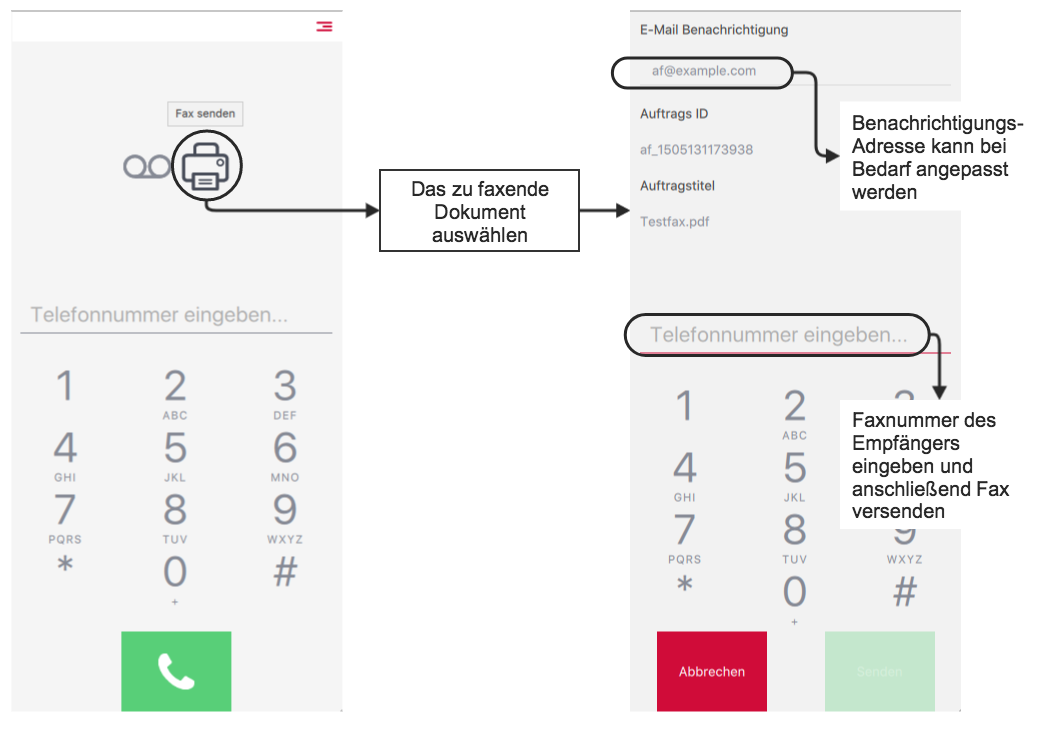
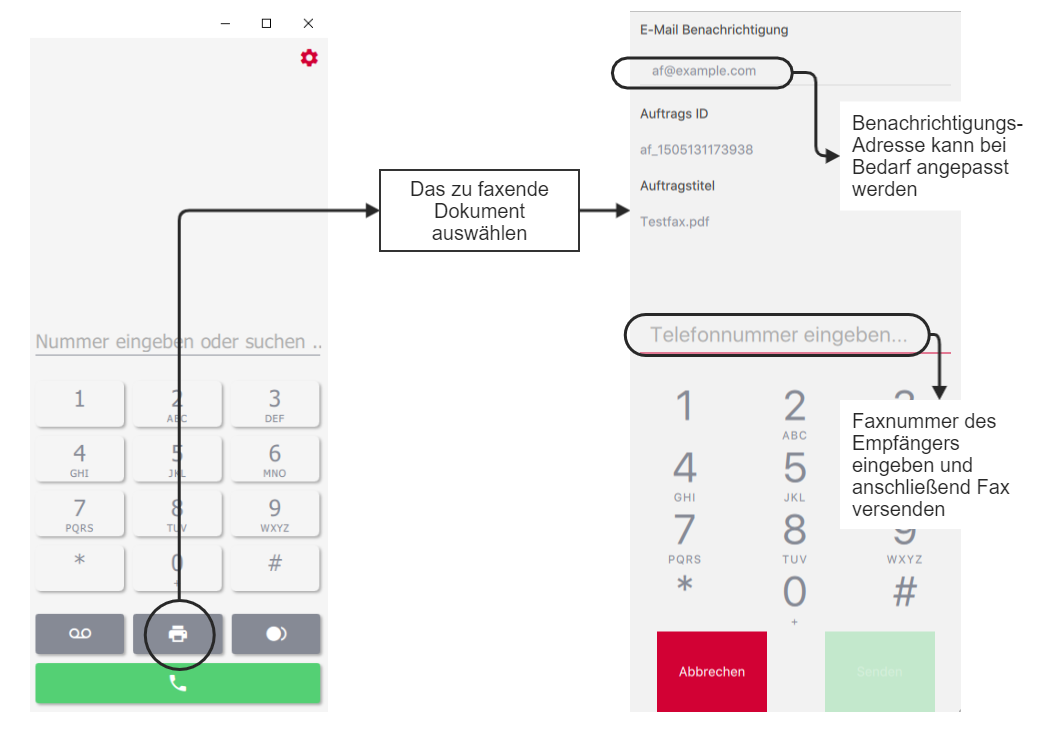
PM-1393 Documentation Client UserHandbook pascom19

diff --git a/site/content/clients/desktop-userguide/_index.en.md b/site/content/clients/desktop-userguide/_index.en.md
@@ -16,7 +16,7 @@ weight: 30
 - Hinweis auf unterstützte Headsets
 - VErbinden -> Bilder mit einheitlichen Nummern
 -->
-## Training Video
+## Whats New in pascom19 | Training Video
  
 {{< youtube 1oK8OLRG624 >}}
 
@@ -339,9 +339,9 @@ Start a new [group conference]({{< relref "#group-conferences">}}) or join an ex
 
 The Call History provides an overview of all your calls.
 
-![pascom Call History](journal.en.png?width=90%)
+![pascom Call History](journal.en.png)
 
-By using the right click function, it is possible to use do the following when clicking on a call in the log:
+By using the right click function, it is possible to use the following when clicking on a call in the log:
 
 * Copy all details pertaining to a caller (Time, type of call, caller name (if available), and their phone number),
 * Copy only the phone number to store or edit elsewhere,
@@ -353,19 +353,51 @@ By using the right click function, it is possible to use do the following when c
 
 ![pascom Telephone book](phonebook.en.png)
 
-The client provides access to the company phone book as well as your private phone book which you can manage yourself. Add a contact to the private phone book and this display name will displayed by incoming calls but only in your desktop client.
+The client provides access to the company phone book as well as your private phone book which you can manage yourself. Add a contact to the private phone book and this display name will displayed by incoming calls but only in your desktop client.  
+
+If you want to add external contacts from your phonebook to the contact list, you can mark the corresponding contact as a favorite in the phonebook.
+
+![phonebook](phonebook_favorit.png?width=350px)
 
 ## Fax
 
-![pascom client fax](fax.en.png?width=75%)
+![pascom client fax](fax.en.png?width=500px)
 
 If a fax number is already stored in the phone book, it is possible to send a fax by clicking on the fax symbol in the phone book:
 
-![Fax](phonebook_fax.en.png?width=45%)
+![Fax](phonebook_fax.en.png?width=350px)
+
+### Fax from an watched Folder (PDF to Fax)
+
+The Client Settings > {{< ui-button "PDF to FAX settings" >}} allows you to define a folder on your computer. This folder is monitored by the client. As soon as a PDF File is saved, copied or printed in this folder, the pascom client opens the fax dialog to send this file.
+
+### Automatic fax via an watched folder
+
+Fax control panels are inserted as plain text in the document to be sent, then the fax server processes these instructions.
+
+#### Preparation
+
+To be able to recognize the panels from the PDF document, the [Ghostskript](https://www.ghostscript.com/) is needed on your machine. If the ghostscript is installed then the path of the Ghostscript File *gs* must be selected via the client > {{< ui-button "PDF to FAX settings" >}}.
+
+
+#### Automatic transmission
+
+Insert the controls into the document to be sent.
+
+Please note that these panels can also be read by the recipient. Possibly, you can be invisible with certain writing programs (eg white test on a white background).
+
+|Available controls||
+|---|---|
+|@@+FAX:+49991123456789@@|The fax must contain at least this control character with the destination number.|
+|@@+TAG:Bestellung XYZ@@|Optionally, the fax job can be provided with a subject.|
+|@@+NOTIFY:mustermann@musterfirma.de@@|Optionally, you can specify who should be notified of the status of the fax job.|
+
+
+As described in the previous section, you can use the client settings > {{< ui-button "PDF to FAX settings" >}} to define a folder on your computer that is monitored by the client. As soon as a PDF file is saved, copied or printed in this folder, the control fields are evaluated and the file is sent as a fax.
 
 ## Call Voicemail
 
-![Voicemail-Box](voicemailbox.en.png?width=70%)
+![Voicemail-Box](voicemailbox.en.png?width=500px)
 
 By clicking on the Voicemail box symbol, it is possible to call your voicemail box directly. Additional options can be configured by following the prompts in the voicemail system itself.
 
@@ -377,7 +409,7 @@ Shortcut keys are only available in the desktop client for Windows and macOS.
 
 When installing the client, the shortcut keys are predefined. However, if needed the shortcut keys can be freely customised according to your preference.
 
-![Shortcut keys](settings_shortcuts.en.png?width=55%)
+![Shortcut keys](settings_shortcuts.en.png?width=90%)
 
 ### Global Shortcut Keys:
 
@@ -389,13 +421,61 @@ When installing the client, the shortcut keys are predefined. However, if needed
 
 ## Client Settings
 
-![Client Settings](settings.en.png?width=45%)
+### Profile Settings
 
-|Settings|Description|
+![profile settings](profilesettings.en.png?width=45%)
+
+|Setting|Description|
 |---|---|
-|Language|Current languages available include: English, German, French, Dutch, Serbian and Bavarian.|
-|Colour Scheme|Available in a two colour schemes: light and dark.|
-|Download Folder|Per default, your downloads folder will be used, however it is possible to customize according to your requirements.|
+|Avatar|Change your profile picture. Autogenerate a profile picture or upload a profile picture from the computer.|
+|Contact List|Sort your contact list according to your application preferences.|
+|List Style|There are 2 contact list styles available. "List view" for a narrow contact list and "Details" for a more detailed view.|
+|Auto Away|If your computer is not locked and your mouse does not move for XXX seconds, your status will change to yellow "I'll be right back"|
+|Journal / Hide System Calls|Hides system calls like voicemail etc. from the journal.|
+|Change Password|Set a new Password - works only if the password is not set from an  external source (for example Active Directory)|
+
+### Audio and Headset Settings
+
+Headset settings for supported manufacturers Sennheiser, Jabra and Plantronics. These should be set to "auto" to ensure a fast hardware detection of connected devices. Adjust the microphone, speakers and ringtone of the connected headsets.
+
+![audio and headset settings](audiosettings.en.png?width=400px)
+
+### My Devices / Follow Me Settings
+
+In the Follow Me Settings you decide yourself, providet that it has been activated by the administrator, which of your devices should ring. In addition, you can select predefined workstations to which you can login.
+
+1. Determine your device that will be used for outgoing calls.
+2. Determine which of your devices should ring when. 
+3. Pair / unpair your mobile device. 
+
+![Follow Me Settings](followme.en.png?width=95%)
+
+### Client Settings
+
+Here you define the basic settings of the Client.
+
+1. Change the Language.
+2. Choose between 2 Colormodes, bright and dark.
+3. Determine a download folder in which the files of transfers are stored. 
+
+![Client Settings](client_settings.en.png?width=500px)
+
+## Actions
+
+The actions allow you to pass call data to third-party applications. Here you have the possibility to pass on data to a URL or to an installed application.
+
+![Client Actions](actions.en.png?width=500px)
+
+The applications are diverse here. You can use the variables $ {name}, $ {number}, $ {MDC_LABEL-X} or $ {MDC_SKILL-X} (Labels) as parameters.
+
+|Setting|Description|
+|---|---|
+|URL|Enter the URL here, followed by the desired parameters.|
+|Automaticly open URL|Automatically open URL on incoming call.|
+|Application|Select the installed application on your computer here.|
+|Parameters|Define here the parameters to be passed to the application.|
+|Automaticly open app|Application starts automatically on incoming call.|
+
 
 ## pascom Client Feedback  
 

diff --git a/site/content/clients/desktop-userguide/_index.de.md b/site/content/clients/desktop-userguide/_index.de.md
@@ -16,6 +16,11 @@ weight: 30
 - Hinweis auf unterstützte Headsets
 - VErbinden -> Bilder mit einheitlichen Nummern
 -->
+
+## Whats New in pascom19 | Training Video
+ 
+{{< youtube cnSuDvVzl5Q >}}
+
 ## Login
 
 Damit ein angelegter [Benutzer]({{< relref "/user/user#Benutzer-anlegen">}}) den pascom Client verwenden und sich anmelden kann benötigt er seinen Benutzernamen und das hinterlegte Benutzerkennwort.
@@ -344,7 +349,7 @@ Starten Sie nun eine neue [Gruppen Konferenz]({{< relref "#gruppen-konferenz">}}
 
 Das Journal gibt eine Übersicht über alle getätigten Anrufe.
 
-![Journal](journal.de.png?width=90%)
+![Journal](journal.de.png)
 
 
 Im Journal haben Sie die Möglichkeit mit einem Rechtsklick auf den Eintrag
@@ -360,19 +365,23 @@ Im Journal haben Sie die Möglichkeit mit einem Rechtsklick auf den Eintrag
 
 ![Telefonbuch](phonebook.de.png)
 
-Der Client bietet neben dem Firmen-Telefonbuch auch ein eigenes (privates) welches Sie selber anlegen und pflegen können. Legen Sie einen Eintrag in Ihrem privaten Telefonbuch, wird dessen Name bei einem eingehendenen Anruf nur in Ihrem Client angezeigt.
+Der Client bietet neben dem Firmen-Telefonbuch auch ein eigenes (privates) welches Sie selber anlegen und pflegen können. Legen Sie einen Eintrag in Ihrem privaten Telefonbuch, wird dessen Name bei einem eingehendenen Anruf nur in Ihrem Client angezeigt.  
+
+Möchten Sie externe Kontakte aus Ihrem Telefonbuch in die Kontaktliste mit aufnehmen, so können Sie im Telefonbuch den entsprechenden Kontakt als Favorit markieren.
+
+![Telefonbuch](phonebook_favorit.png?width=350px)
 
 ## Fax
 
 ### Faxen über den Telefoniebereich
 
-![Fax](fax.de.png?width=75%)
+![Fax](fax.de.png?width=500px)
 
 ### Faxen über den Telefonbuch-Eintrag
 
 Falls die Faxnummer bereits bekannt und im Telefonbuch hinterlegt ist, kann das Fax auch mit einem Klick auf das Fax-Symbol im Telefonbuch versendet werden:
 
-![Fax](phonebook_fax.de.png?width=45%)
+![Fax](phonebook_fax.de.png?width=350px)
 
 ### Faxen über einen überwachten Ordner (PDF to Fax)
 
@@ -384,7 +393,7 @@ Fax-Steuerfelder werden als normaler Text in das zu sendende Dokument eingefügt
 
 #### Vorbereitung
 
-Damit die Steuerfelder aus dem PFD-Dokument erkannt werden können, wird das [Ghostskript](https://www.ghostscript.com/) auf Ihrem Rechner benötigt.
+Damit die Steuerfelder aus dem PDF-Dokument erkannt werden können, wird das [Ghostskript](https://www.ghostscript.com/) auf Ihrem Rechner benötigt.
 Ist das Ghostskript installiert muss der Pfad der Ghostskript-Datei *gs* über die Client-Einstellungen > {{< ui-button "PDF zu Fax Einstellungen" >}} ausgewählt werden.
 
 
@@ -408,7 +417,7 @@ Wie bereits im vorherigen Punkt beschrieben, können Sie über die Client-Einste
 
 ## Voicemailbox abrufen
 
-![Voicemail-Box](voicemailbox.de.png?width=70%)
+![Voicemail-Box](voicemailbox.de.png?width=500px)
 
 Mit dem Klick auf das Voicemail-Box-Symbol können Sie Ihre Voicemail-Box direkt anrufen. Weitere Optionen erfolgen über die Ansagen der Voicemail-Box.
 
@@ -416,7 +425,7 @@ Mit dem Klick auf das Voicemail-Box-Symbol können Sie Ihre Voicemail-Box direkt
 
 Bei der Installation des Clients sind die Tastenkürzel bereits vordefiniert. Diese können Sie aber nach Ihren Wünschen belegen.
 
-![Tastenkürzel](settings_shortcuts.de.png?width=55%)
+![Tastenkürzel](settings_shortcuts.de.png?width=90%)
 
 {{% notice info %}}
 Tastenkürzel sind nur im Desktop Client unter Windows und macOS verfügbar.
@@ -432,14 +441,60 @@ Im folgenden werden die globalen Tastenkürzel näher erklärt:
 
 ## Client-Einstellungen
 
-![Client Einstellungen](settings.de.png?width=45%)
+### Profil Einstellungen
+
+![Profil Einstellungen](profilesettings.de.png?width=400px)
 
 |Einstellung|Beschreibung|
 |---|---|
-|Sprache|Aktuell verfügbare Sprachen: Deutsch, Englisch, Französisch, Niederländisch, Bayrisch, Serbisch.|
-|Farbschema|Verfügbar sind zwei Farbschemata: hell und dunkel.|
-|Download-Ordner|Als Standardeinstellung wird hier immer Ihr Download-Ordner verwendet. Diesen können Sie bei Bedarf anpassen.|
+|Avatar|Ändern Sie Ihr Profilbild. Lassen Sie sich ein Profilbild generieren oder laden Sie sich ein Profilbild vom Computer hoch.|
+|Kontaktliste|Sortieren Sie Ihre Kontaktliste nach Ihren Anwendungsvorlieben.|
+|Listenstil|Es stehen 2 Kontaktlistenstile zur Verfügung. "Listenansicht" für eine schmale Kontaktliste und "Details" für eine detailiertere Ansicht.|
+|Automatische Abwesenheit|Ist Ihr Computer nicht gespehrt und Ihre Maus bewegt sich für XXX Sekunden nicht, wechselt Ihr Status auf gelb "Bin gleich zurück"|
+|Journal / Systemanrufe ausblenden|Blendet Systemanrufe wie Voicemail etc. aus dem Journal aus.|
+|Passwort ändern|Passwort neu vergeben - funktioniert nur, wenn das Passwort nicht von extern kommt (z.B. Active Directory)|
 
+### Audio und Headset Einstellungen
+
+Einstellungen für Headsets unterstützter Hersteller Sennheiser, Jabra und Plantronics. Diese sollten auf "Auto" stehen, um eine schnelle Hardware Erkennung angeschlossener Geräte zu gewährleisten. Stellen Sie das Mikrofon, Lautsprecher und den Klingelton der angeschlossenen Headsets ein.
+
+![Audio und Headset Einstellungen](audiosettings.de.png?width=400px)
+
+### Meine Geräte / Follow Me Einstellungen
+
+In den Follow Me Einstellungen bestimmen Sie selbst, sofern es durch den Administrator freigeschalten wurde, welche Ihrer Endgeräte wann klingeln soll. Zusätzlich können Sie vordefinierte Arbeitsplätze auswählen, an denen Sie sich anmelden können.
+
+1. Bestimmen Sie Ihr Endgerät das für ausgehende Telefonate verwendet werden soll.
+2. Legen Sie fest, welches Ihrer Endgeräte wann klingeln soll. 
+3. Pairen/unpairen Sie Ihr Mobilgerät. 
+
+![Follow Me Einstellungen](followme.de.png?width=95%)
+
+### Client Einstellungen
+
+Hier legen Sie die Basiseinstellungen des Client fest.
+
+1. Ändern Sie die Sprache
+2. Wählen Sie zwischen 2 Farbmodi, hell und dunkel.
+3. Bestimmen Sie einen Download Ordner in dem die Dateien von Übertragungen gespeichert werden. 
+
+![Client Einstellungen](client_settings.de.png?width=500px)
+
+## Aktionen
+
+In den Aktionen können Sie Anrufdaten an Drittanwendungen weitergeben. Hier haben Sie die Möglichkeit Daten an eine URL, oder an eine installierte Anwendung weiter zu geben. 
+
+![Client Aktionen](actions.de.png?width=500px)
+
+Die Anwendungsfälle sind hier vielfälltig. Sie können die Variablen ${name}, ${number}, ${MDC_LABEL-X} oder ${MDC_SKILL-X} (Labels) als Parameter verwenden.
+
+|Einstellung|Beschreibung|
+|---|---|
+|URL|Geben Sie hier die URL ein, gefolgt von den gewünschten Parametern.|
+|URL automatisch öffnen|URL automatisch bei eingehendem Anruf öffnen.|
+|Anwendung|Wählen Sie hier die installierte Anwendung auf Ihrem Computer aus.|
+|Parameter|Hinterlegen Sie hier die Parameter, die an die Anwendung übergeben werden soll.|
+|Anwendung automatisch öffnen|Anwendung wird automatisch gestartet bei eingehendem Anruf.|
 
 ## Client-Feedback an pascom melden
 
